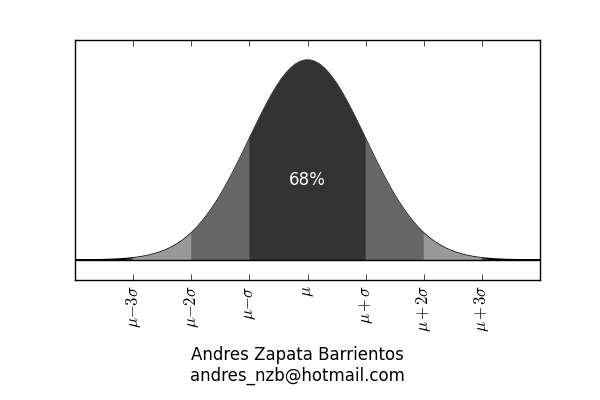
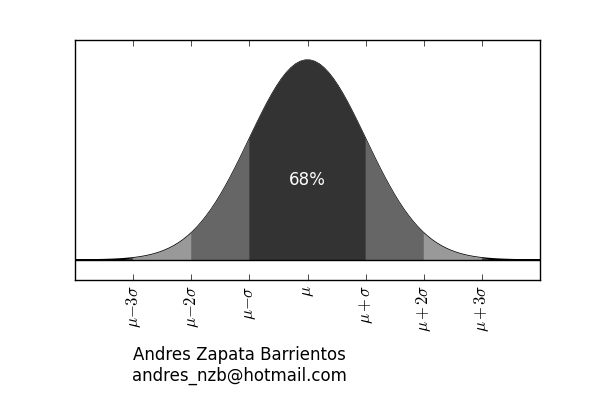
final final try

Changed region(s): [[0.21, 0.87, 0.69, 0.96]]

diff --git a/gauss_plot.py b/gauss_plot.py
@@ -38,8 +38,8 @@ xtick_labels = (r"$\mu - 3 \sigma$",
 
 fig = plt.figure(1, figsize=(6, 4))
 ax = fig.add_subplot(111)
-ax.text(-2,-0.5,"Andres Zapata Barrientos")
-ax.text(-2,-0.6,"andres_nzb@hotmail.com")
+ax.text(-3,-0.5,"Andres Zapata Barrientos")
+ax.text(-3,-0.6,"andres_nzb@hotmail.com")
 ax.axhline(0, color='k')
 
 ax.fill_between(x_full, y_full, edgecolor='k', facecolor='0.8')
